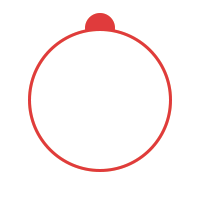
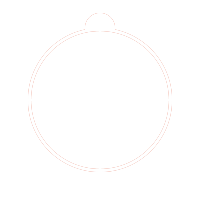
fixed player for iPad , iPhone , AND Android smartphones

Changed region(s): [[0.3, 0.06, 0.87, 0.75], [0.12, 0.3, 0.75, 0.87], [0.21, 0.21, 0.3, 0.3]]

diff --git a/index.html b/index.html
@@ -64,7 +64,7 @@
                 <div class="block-container">
                     <div class="musicFilters clearfix">
                         <div class="playAll">
-                            <strong class="title">CHARTS</strong> <span class=
+                            <strong class="title">RECENTLY ADDED</strong> <span class=
                             "chart-play"><i aria-hidden="true" class=
                             "fa fa-play"></i> PLAY ALL</span>
                         </div>
@@ -124,7 +124,7 @@
                                     <div class="listView chartsListTable">
 
                                         <div class="ColumnListNumber listViewCol">
-                                            1
+                                            New
                                         </div>
 
                                         <div class="ColumnListImage listViewCol">
@@ -165,7 +165,7 @@
                                     <div class="listView chartsListTable">
 
                                         <div class="ColumnListNumber listViewCol">
-                                            2
+                                            New
                                         </div>
 
                                         <div class="ColumnListImage listViewCol">
@@ -206,7 +206,7 @@
                                     <div class="listView chartsListTable">
 
                                         <div class="ColumnListNumber listViewCol">
-                                            3
+                                            New
                                         </div>
 
                                         <div class="ColumnListImage listViewCol">
@@ -247,7 +247,7 @@
                                     <div class="listView chartsListTable">
 
                                         <div class="ColumnListNumber listViewCol">
-                                            4
+                                            New
                                         </div>
 
                                         <div class="ColumnListImage listViewCol">
@@ -288,7 +288,7 @@
                                     <div class="listView chartsListTable">
 
                                         <div class="ColumnListNumber listViewCol">
-                                            5
+                                            New
                                         </div>
 
                                         <div class="ColumnListImage listViewCol">
@@ -329,7 +329,7 @@
                                     <div class="listView chartsListTable">
 
                                         <div class="ColumnListNumber listViewCol">
-                                            6
+                                            New
                                         </div>
 
                                         <div class="ColumnListImage listViewCol">
@@ -370,7 +370,7 @@
                                     <div class="listView chartsListTable">
 
                                         <div class="ColumnListNumber listViewCol">
-                                            7
+                                            New
                                         </div>
 
                                         <div class="ColumnListImage listViewCol">
@@ -411,7 +411,7 @@
                                     <div class="listView chartsListTable">
 
                                         <div class="ColumnListNumber listViewCol">
-                                            8
+                                            New
                                         </div>
 
                                         <div class="ColumnListImage listViewCol">
@@ -452,7 +452,7 @@
                                     <div class="listView chartsListTable">
 
                                         <div class="ColumnListNumber listViewCol">
-                                            9
+                                            New
                                         </div>
 
                                         <div class="ColumnListImage listViewCol">
@@ -493,7 +493,7 @@
                                     <div class="listView chartsListTable">
 
                                         <div class="ColumnListNumber listViewCol">
-                                            10
+                                            New
                                         </div>
 
                                         <div class="ColumnListImage listViewCol">

diff --git a/assets/css/main.css b/assets/css/main.css
@@ -47,10 +47,10 @@ dfn {
   font-style: italic;
 }
 
-h1 {
+/*h1 {
   font-size: 2em;
   margin: .67em 0;
-}
+}*/
 
 mark {
   background: #ff0;
@@ -195,7 +195,7 @@ h1, h2, h3, h4, h5, h6 {
   letter-spacing: -2px;
 }
 
-.huge, h1 {
+.huge, /*h1*/ {
   font-size: 68px;
   line-height: 1.05;
   letter-spacing: -1px;
@@ -251,13 +251,13 @@ a:hover, a:focus {
   color: #d89993;
 }
 
-::selection {
+/*::selection {
   background: #fff498;
-}
+}*/
 
-::-moz-selection {
+/*::-moz-selection {
   background: #fff498;
-}
+}*/
 
 img::selection {
   background: transparent;
@@ -267,9 +267,9 @@ img::-moz-selection {
   background: transparent;
 }
 
-body {
+/*body {
   -webkit-tap-highlight-color: #fff498;
-}
+}*/
 
 body {
   background: #f6f6f8;
@@ -286,10 +286,17 @@ body {
   overflow: hidden;
 }
 
-h1 {
+/*h1 {
   margin: 0;
   padding: 1em 0 0;
   color: #f6f6c4;
+}*/
+
+h1 {
+    color: white;
+    font-family: 'Rajdhani', sans-serif;
+    text-align: center;
+    margin: 0 auto;
 }
 
 h2 {
@@ -337,7 +344,7 @@ article {
   left: 50%;
   margin-left: -163px;
   border-radius: 50%;
-  background: url(../img/spinner-outer.png) center center no-repeat #32302e;
+  background: url(../img/spinner-outer.png) center center no-repeat #080D33;
 }
 .playing .spinner-outer {
   -webkit-animation: spin-cw 5s linear infinite;
@@ -479,4 +486,107 @@ article {
     -o-transform: scale(1);
     transform: scale(1);
   }
+}
+
+
+
+
+
+@media only screen and (min-width: 250px) 
+{ 
+
+.spinner-wrap, .spinner-wrap.pulse {
+
+margin: 0 auto;
+top: 0px;
+left: initial;
+position: relative;
+
+}
+
+
+.spinner-outer {
+  width:  100%;
+  left: 0px;
+  margin: 0 auto;
+}
+
+
+}
+
+
+@media only screen and (min-device-width : 250px) and (max-device-width : 749px) 
+ 
+{ 
+
+.spinner-wrap, .spinner-wrap.pulse {
+
+margin: 0 auto;
+top: 0px;
+left: initial;
+position: relative;
+
+}
+
+
+.spinner-outer {
+  width:  100%;
+  left: 0px;
+  margin: 0 auto;
+}
+
+
+}
+
+
+@media only screen and (min-device-width : 749px) and (max-device-width : 1023px) 
+ 
+{ 
+
+.spinner-wrap, .spinner-wrap.pulse {
+
+margin: 0 auto;
+top: 0px;
+width: 491px;
+position: relative;
+
+
+}
+
+
+.spinner-outer {
+  width:  491px;
+  height: 491px;
+  left: 0px;
+  margin: 0 auto;
+}
+
+
+.spinner-center {
+  height: 300px;
+  width: 300px;
+  left:40%;
+  top:  59%;
+}
+
+.play-sprite {
+  
+  width: 105px;
+  top: 75%;
+}
+
+
+#goHomeButton {
+  position: absolute;
+  padding-top: 27%;
+}
+
+.button1 {
+
+
+font-size: 24px;
+padding: 15px 0px 15px 0px;
+}
+
+
 }

diff --git a/css/style.css b/css/style.css
@@ -440,6 +440,8 @@ ul {
   vertical-align: middle;
   width: 50px;
   font-size: 25px;
+  font-family: 'Rajdhani', sans-serif;
+  text-align: center;
 }
 
 .listView .ColumnListImage {
@@ -953,7 +955,10 @@ iframe {
   font-size: 14px;
 }
 
-
+#goHomeButton {
+  padding-top: 0px;
+  
+}
 
 
 
@@ -1101,6 +1106,7 @@ iframe {
 p {
   text-align: -webkit-center;
   font-size: 16px;
+
 }
 
 input {

diff --git a/success.html b/success.html
@@ -38,6 +38,7 @@
     <div class="icon-menu">
         <i class="fa fa-bars"></i>
     </div>
+    <br><br><header><h1>SUCCESS</h1></header>
     <div class="successSectionContainer">
         <div id="successMessage">
             <img class="success-logo" src="images/successlogo.png" alt="brandlogo">

diff --git a/player.html b/player.html
@@ -39,7 +39,7 @@
     <div class="icon-menu">
         <i class="fa fa-bars"></i>
     </div>
-
+br><br><header><h1>PLAYER</h1></header>
   <div class="spinner-wrap">
     <div class="spinner-outer"></div>
     <div class="spinner-center"></div>

diff --git a/assets/js/functions.js b/assets/js/functions.js
@@ -37,3 +37,5 @@ $( document ).ready(function() {
     
 
 });
+
+  // CREDIT TO CODECOURSE - ONLINE CODE LEARNING PLATFORM
